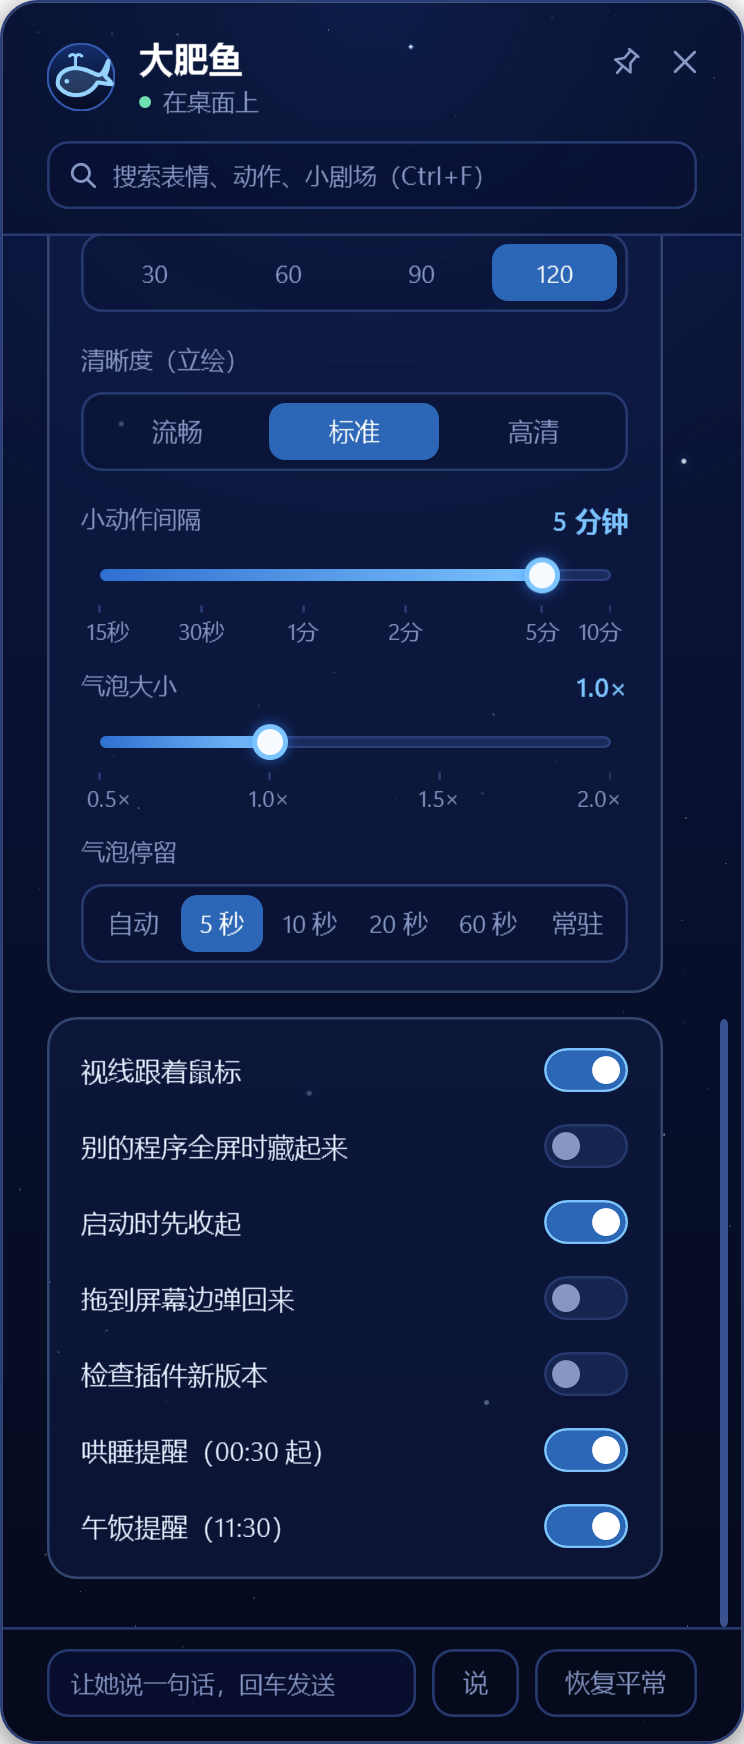
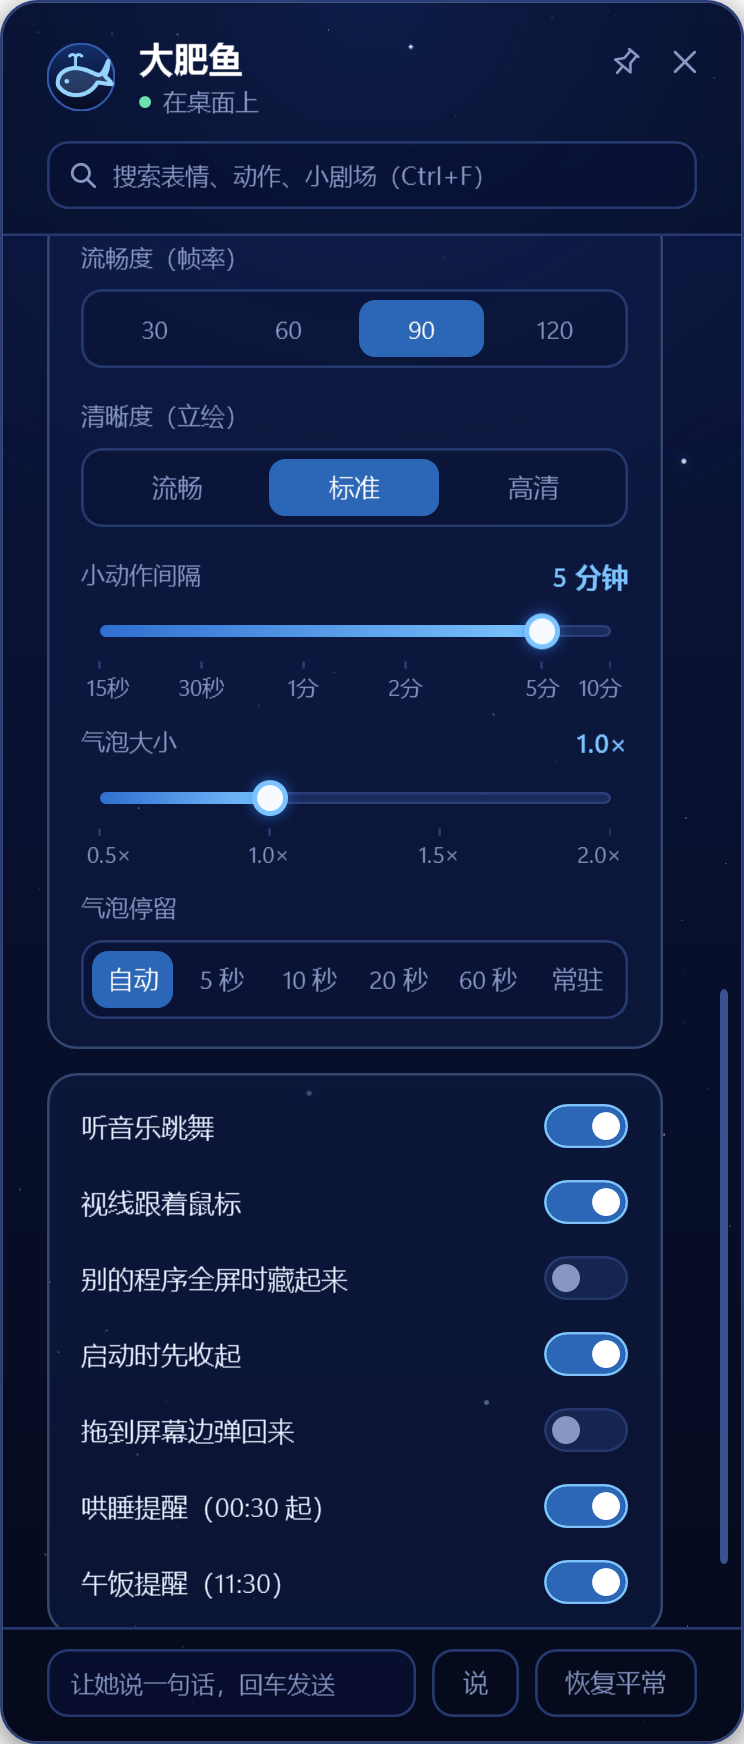
介绍页放两张托盘截图：控制台和更多设置；更多设置那张换成新版（旧图缺听音乐跳舞、还留着已删掉的开关）

Changed region(s): [[0.0618, 0.1239, 0.8965, 0.9289], [0.9583, 0.8979, 0.9892, 0.9289], [0.9583, 0.5573, 0.9892, 0.5883]]

diff --git a/README.md b/README.md
@@ -91,9 +91,18 @@
 | **陪你干活** | 开工、出错、测试通过、做完，她都会在旁边反应，不花 token（可选） |
 | **托盘控制台** | 任务栏的小鲸鱼图标，点开调大小、体型、换衣服，点表情和小剧场看效果 |
 
-<p align="center">
-  <img src="docs/demo/tray.png" width="260" alt="托盘控制台">
-</p>
+<table align="center">
+  <tr>
+    <td align="center" valign="top">
+      <img src="docs/demo/tray.png" width="260" alt="托盘控制台"><br>
+      <sub>控制台：羁绊、专注、大小、体型、换装</sub>
+    </td>
+    <td align="center" valign="top">
+      <img src="docs/demo/tray-settings.png" width="260" alt="更多设置"><br>
+      <sub>更多设置：帧率、清晰度、气泡、各种开关</sub>
+    </td>
+  </tr>
+</table>
 
 还有换装、Q 版、小剧场、好几个名字……留给你自己去发现。完整说明见 [功能详解](docs/功能详解.md)。
 
